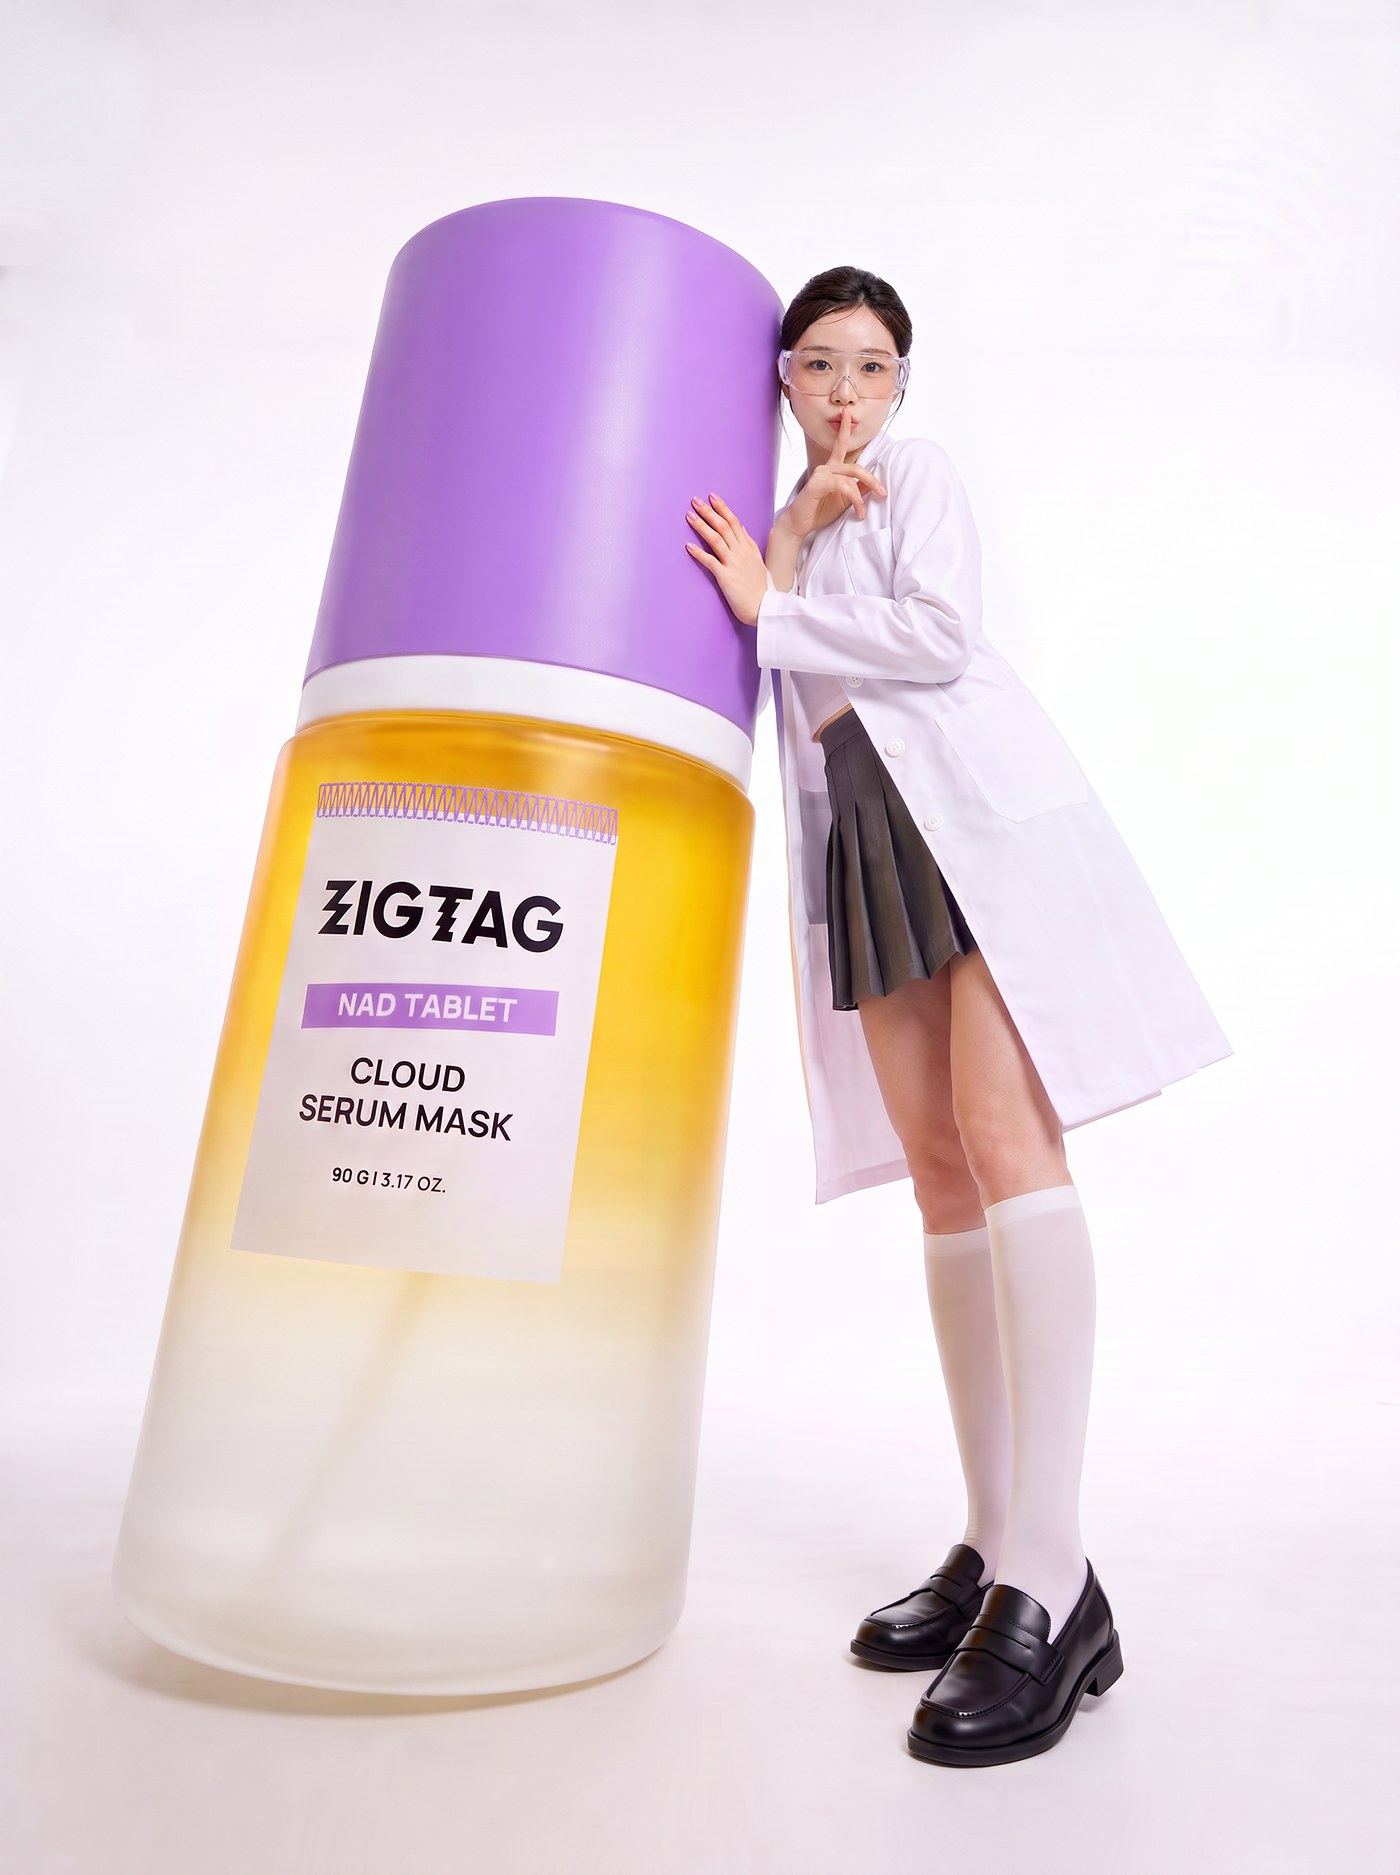
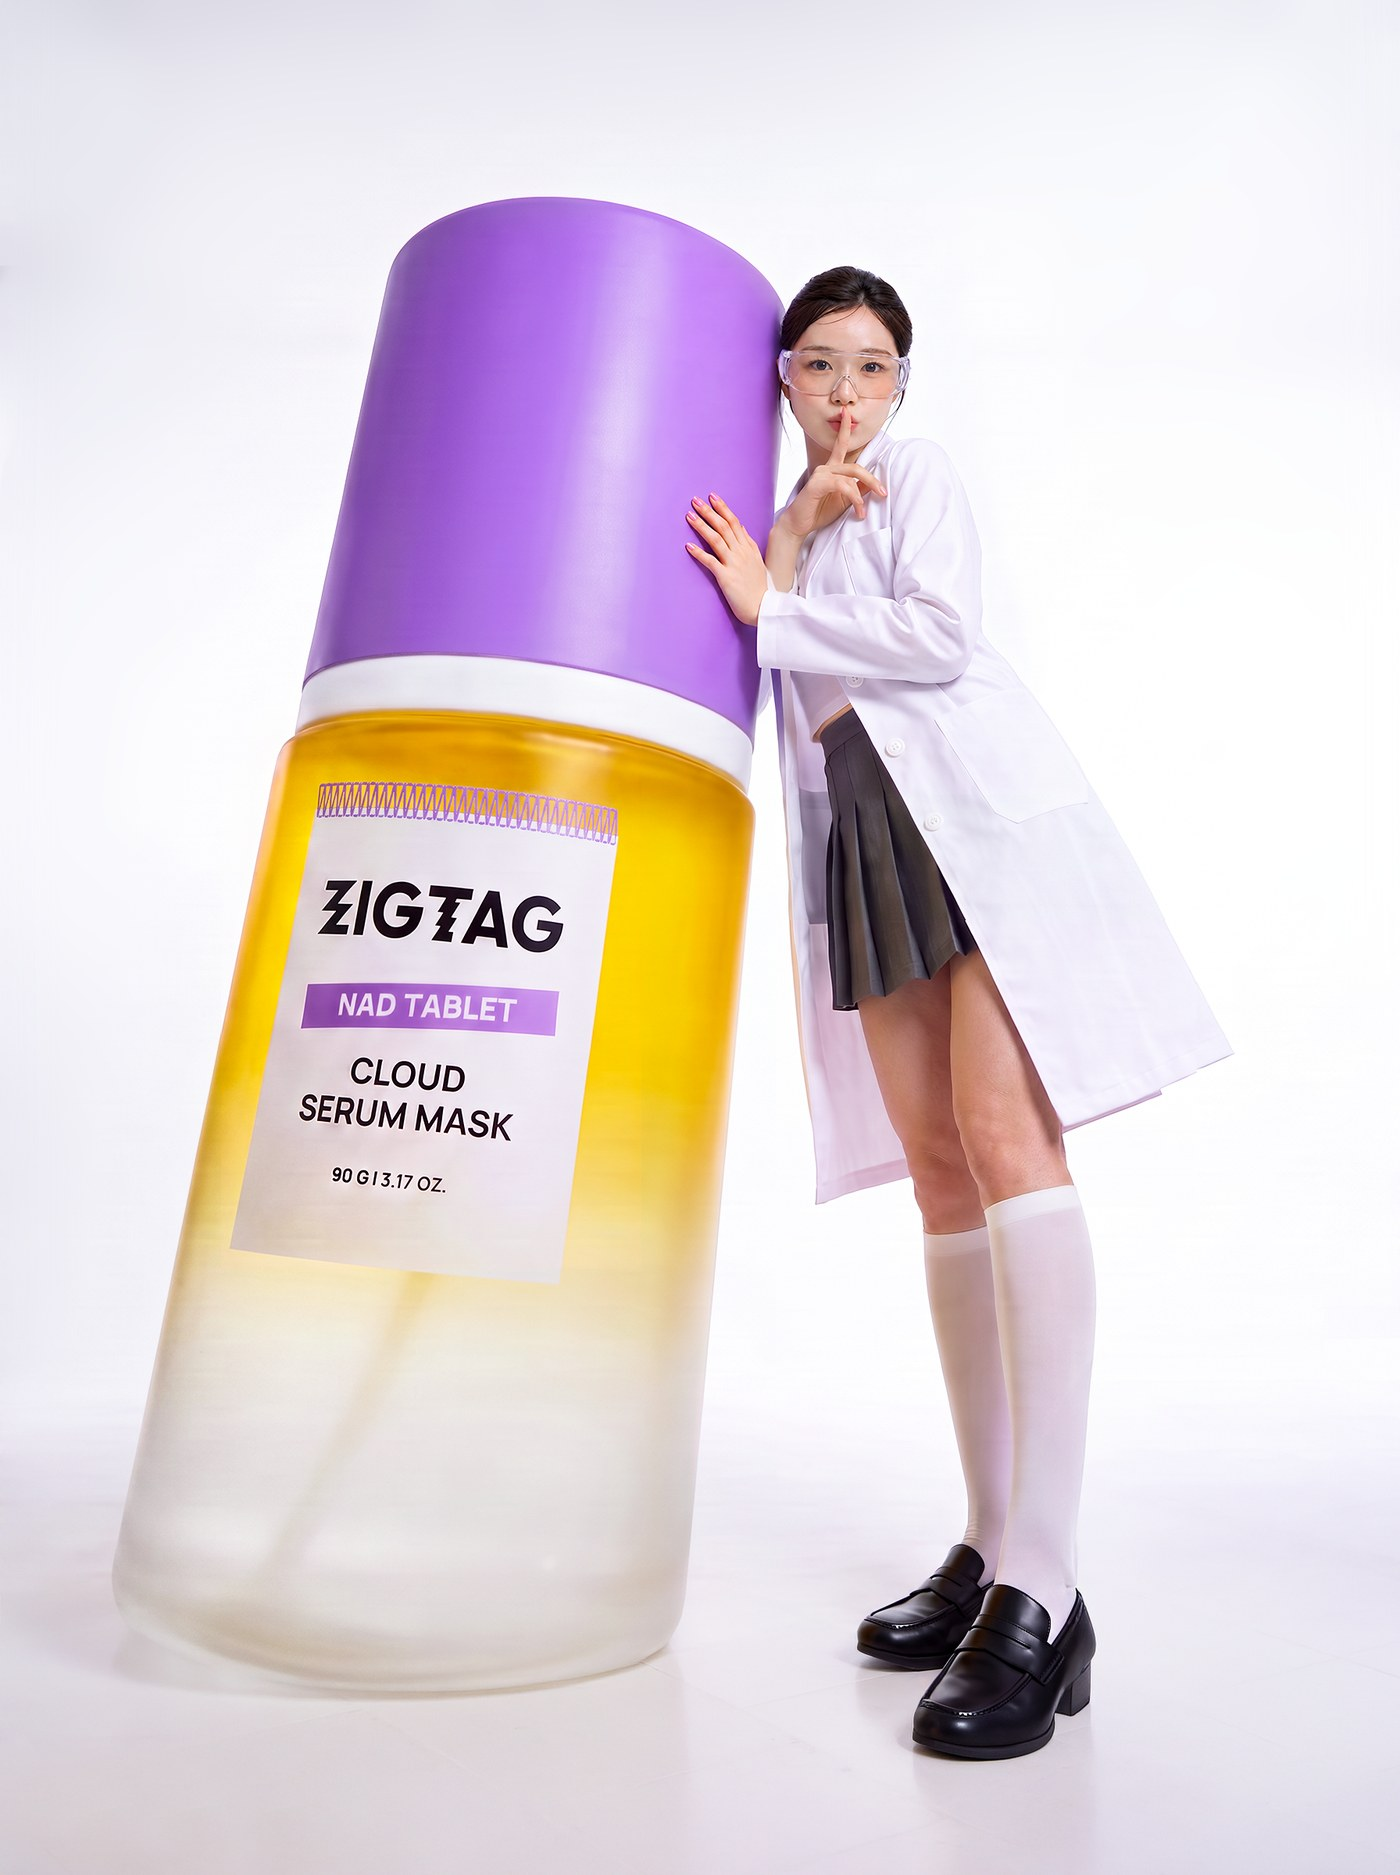
Replace AI full-body model cut
Claude-Session: https://claude.ai/code/session_01XW4Q4jkuozTHpxvnhAKQcu

diff --git a/index.html b/index.html
@@ -710,7 +710,7 @@ function openViewer(i){
     $("#vBody").innerHTML=introHTML(p.id)+tiktokHTML();
     initTK();
   } else if(p.m.ai){
-    const outs=p.m.files.map((f,k)=>`<figure class="ai-out"><img ${k?'loading="lazy"':''} decoding="async" src="images/${p.id}/${f}" alt="${esc(p.title)} AI 연출 컷 ${k+1}"><figcaption><span>OUTPUT ${String(k+1).padStart(2,"0")}</span>${esc((p.m.caps||[])[k]||"AI 연출 컷")}</figcaption></figure>`);
+    const outs=p.m.files.map((f,k)=>`<figure class="ai-out"><img ${k?'loading="lazy"':''} decoding="async" src="images/${p.id}/${f}?v=2" alt="${esc(p.title)} AI 연출 컷 ${k+1}"><figcaption><span>OUTPUT ${String(k+1).padStart(2,"0")}</span>${esc((p.m.caps||[])[k]||"AI 연출 컷")}</figcaption></figure>`);
     const src=p.m.src?`<figure class="ai-src"><img decoding="async" src="images/${p.id}/${p.m.src}" alt="${esc(p.title)} 원본 제품 컷"><figcaption><span>INPUT</span>원본 제품 컷</figcaption></figure><div class="ai-arrow" aria-hidden="true">→</div>`:"";
     $("#vBody").innerHTML=introHTML(p.id)+`<div class="ai-flow">${src}${outs[0]||""}</div>`+(outs.length>1?`<div class="ai-more">${outs.slice(1).join("")}</div>`:"");
   } else if(p.m.ba){
